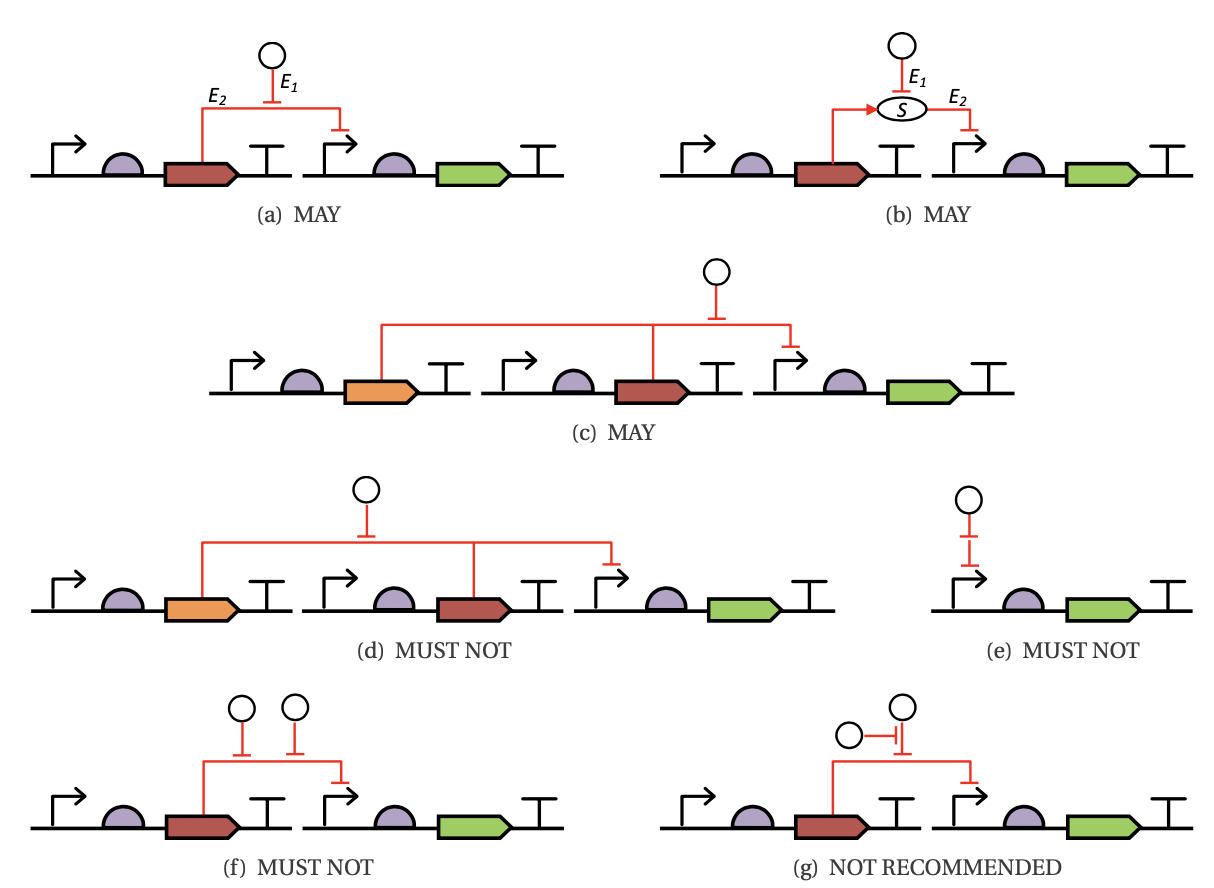
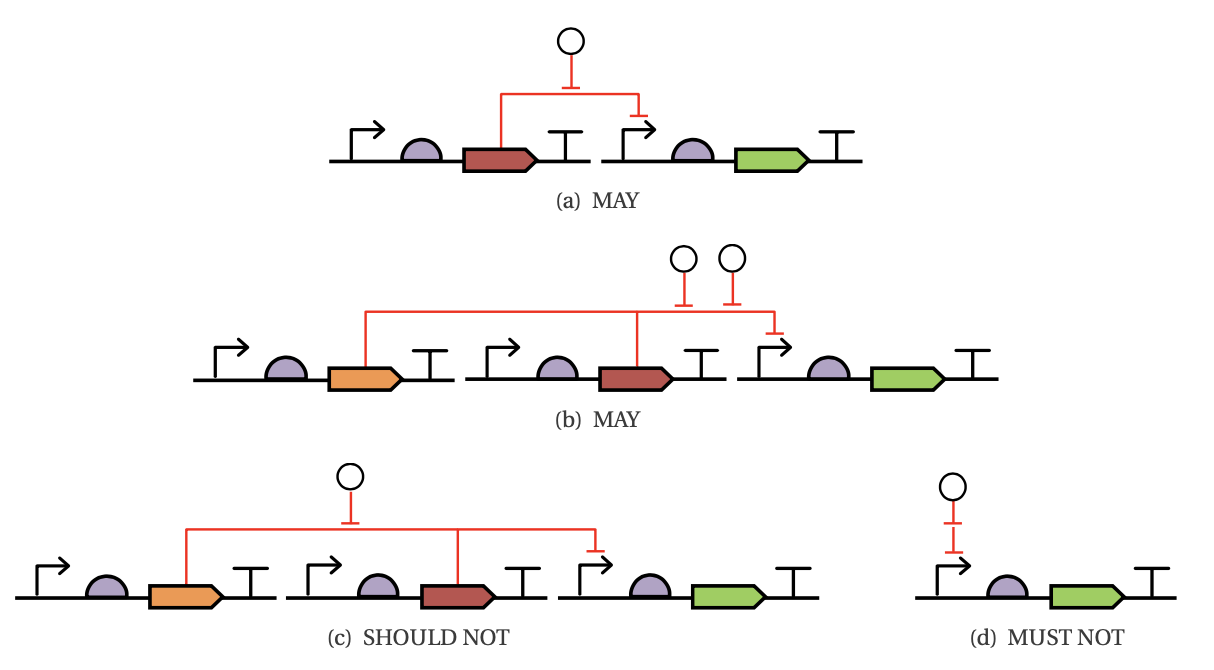
change SEP V018 from implicit species to higher-order interactions

diff --git a/SEPs/SEP_V018.md b/SEPs/SEP_V018.md
@@ -8,7 +8,7 @@
 | **SBOL Visual Version** | 2.3 |
 | **Status** | Draft |
 | **Created** | 5-Oct-2019 |
-| **Last modified** | 1-Oct-2020 |
+| **Last modified** | 18-Oct-2020 |
 | **Issue**         | https://github.com/SynBioDex/SBOL-visual/issues/73 |
 
 
@@ -30,39 +30,62 @@ This SEP establishes the circumstances in which such a form is allowed.
 
 Many practitioners draw diagrams that include "interactions with interactions", such as an inducer molecule stimulating a repression interaction.
 
-This practice can be made compatible with SBOL Visual by allowing edges into a process node to have arrowheads that specify their role, then identifying the circumstances under which the process node can be omitted unambiguously.
+In the Systems Biology Ontology, the categories of relationships and roles are not exclusive.  Thus, it is possible, for example, for an inhibition relationship to itself be a target of inhibition. This is taken advantage of in other standards already: the SBGN ER langauge explicitly allows relations to modulate other relations. We therefore propose to simply allow this to be done with SBOL Visual as well.
 
-Introducing this change also requires clarifying the definition of interaction nodes, which previously had some ambiguities and inconsistencies.
+Note that this will allow diagrams that _cannot_ be represented directly in the SBOL 2 data model, though this will be able to be represented in SBOL 3 if [SEP 049](https://github.com/SynBioDex/SEPs/blob/master/sep_049.md) is accepted.
+
+Consideration of this change also revealed some shortcomings in the previous definition of interaction nodes, which are also to be clarified.
 
 ## 2. Specification <a name="specification"></a>
+
+### Expand Definition of Glyph Classes
+
+In Section 4 of the specification, the first sentence defining interaction glyphs will be changed from:
+
+> Interaction Glyphs are ``arrows'' indicating functional relationships between sequence features and/or molecular species.
+
+to:
+
+> Interaction Glyphs are ``arrows'' indicating functional relationships between sequence features, molecular species, and/or other relationships.
+
+### Disentangle multi-arrow and interaction node definitions
 
 In Section 5.4 (Interaction) of the specification, the following sentence defining interaction nodes will be moved from item 5.4.3 (multi-head/multi-tail edges) to item 5.4.4 (interaction nodes), along with Figure 18(c) and 18(d):
 
 > A glyph at the point where an edge splits or joins represents a biochemical process, i.e., an additional Interaction with type and roles set by the process glyph.
 
-Figure 18(e) will be deleted, being replaced with the more specifically tailored Figure 20(b).
+Figure 18(e) will be deleted, being replaced with the more specifically tailored Figure 20(b), shown in the next section.
 
-The following new items will be added:
+> ![Figure 18(e)](img/SEPV018-fig18e-deleted.png)
+> Figure 18(e), to be deleted
 
-> * An edge with its head at an interaction node MAY use an Interaction arrowhead to indicate a role other than Reactant (SBO:0000010) in the biochemical process. An example is provided in 20(a).
-> * An edge with its tail at an interaction node MAY use an Interaction arrow head to indicate an additional Interaction in which this product of the biochemical process has the tail role associated with that type. An example is provided in 20(b).
+### Meaning of arrows into / out of interaction nodes:
+
+The following explanation of the meaning of arrows into or out of interaction nodes will be added as a new point 5.4.5:
+
+> * An edge with its head at an interaction node MAY use an Interaction arrowhead to indicate a role other than Reactant (SBO:0000010) in the biochemical process. Likewise, an edge with its tail at an interaction node MAY use an Interaction arrow head to indicate the role played by that product of the biochemical process in another Interaction. Examples are provided in Figure 20.
 
 > ![Figure 20](img/SEPV018-fig20.png)
 
 
-> Figure 20: (a) Example of interaction node with an additional role indicated by an entering arrow head: association of gRNA and Cas9 inhibited by the presence of a competing gRNA. (b) Example of a composite edge pattern representing two interactions: CRISPR complex formation with dCas9, where that complex then represses a promoter.
+> Figure 20: (a) Example of interaction node with an additional role indicated by an entering arrow head: association of gRNA and Cas9 inhibited by the presence of a competing gRNA. (b) Example of interaction node whose product plays a role in another interaction: dCas9 and gRNA associate to form a CRISPR complex, which then represses a promoter.
 
-> * The head of a “higher-level” directed edge E<sub>1</sub> MAY connect to an intermediate point on another “target” edge E_2, forming an “interaction with an interaction” pattern. The “higher-level” edge form is equivalent to
-an expansion into a pattern of three interactions with an unspecified intermediate molecular species S, as follows:
->  * The head of the “higher level” edge E1 is the unspecified species S.
->  * The tail of the “target” edge E2 is the unspecified species S.
->  * The unspecified species S is the Product (SBO:0000011) of a Process (SBO:0000375) Interaction whose Reactant (SBO:0000010) is the original tail of the “target” edge E2.
-> 
->  Note that this applies only to heads, as an intermediate tail cannot be distinguished from multiple heads, as specified above; likewise, the connection point on the “target” edge MAY be a non-split portion of a multi-head or multi-tail edge, but MUST NOT be a branch of a multi-head or multi-tail arrow. An edge MUST NOT be the “target” for more than one “higher-level” edge, as the expansion of such a form would be ambiguous. Having a “higher-level” edge also be a “target” edge is NOT RECOMMENDED. Examples are provided in Figure 21.
+### Interactions with Interactions
+
+The following rules regarding interactions with interactions will be added as a new point 5.4.6:
+
+> * An edge MAY have another edge at its head or tail, indicating that the interaction has a participant that is another interaction.
+>	This does not have a direct representation in the SBOL 2 data model.
+>	To avoid ambiguity, an edge SHOULD NOT connect to only one head of a multi-head arrow or one tail of a multi-tail arrow, and MUST connect only to the body of the edge, not its head or tail.
+>	Examples are provided in Figure 21.
 
 > ![Figure 21](img/SEPV018-fig21.png)
-> 
-> Figure 21: Examples of allowed and forbidden use of higher-level edges: (a) aTc inhibiting repression by TetR, and (b) the expanded equivalent with no higher-level edges, in which the TetR protein is explicitly represented (both diagrams labelled to show the expansion pattern). (c) A higher-level edge MAY connect to a non-split portion of a multi-head or multi-tail edge, but (d) higher-level edges MUST NOT connect to a branch of a multi-head or multi-tail edge, (e) higher-level edges MUST NOT connect to the head or tail of an edge, and (f) higher-level edges MUST NOT share a target edge. (g) A higher-level edge is NOT RECOMMENDED to also be a target of another higher-level edge.
+
+> Figure 21: Examples of allowed and forbidden use of interactions with interactions: 
+>	(a) aTc inhibiting repression by TetR.
+>	(b) Multiple inhibitions of an interaction with two tails.
+>	(c) Interactions SHOULD NOT connect to only one head of a multi-head or tail of a multi-tail interaction.
+>	(d) interactions MUST NOT connect to the head or tail of another interaction.
 
 
 ## 3. Examples <a name='example'></a>
@@ -77,8 +100,16 @@ This change is backward compatible, as all previous diagrams are still valid wit
 
 ## 5. Discussion <a name='discussion'></a>
 
-The original concept of this approach was to have an additional interaction nodes be implicit, rather than an unspecified species. This turned out not to be as cocherent an approach, however.
+Two other approaches were originally considered, both of which turned out to be both more complicated and less expressive:
 
+1. The original concept of this approach was to have interactions with interactions imply a pattern equivalent to expansion with an additional interaction node.
+2. The second approach was to have an interaction with an interaction imply an unspecified species instead, which would be the target of the interaction. This was more coherent than the first approach, but overly complex and limiting.
+
+Once discussion revealed that SBO relationships are roles were not exclusive, this approach became possible. It is desirable over the others, as it allows the diagram to be interpreted directly rather than requiring it to be expanded into a hidden equivalent form.
+
+Also discussed, but deferred for separate consideration:
+
+* Should we reverse the ban on multi-head arrows having more than one type of head? (See: Section 5.4.3)
 
 ## Copyright <a name='copyright'></a>
 
